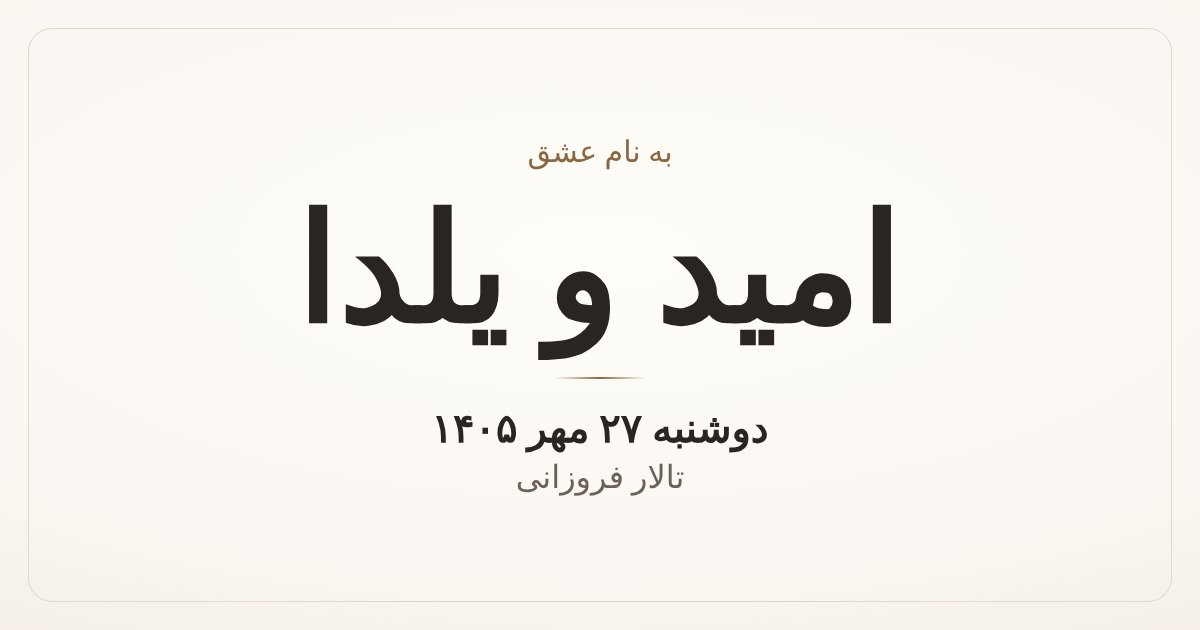
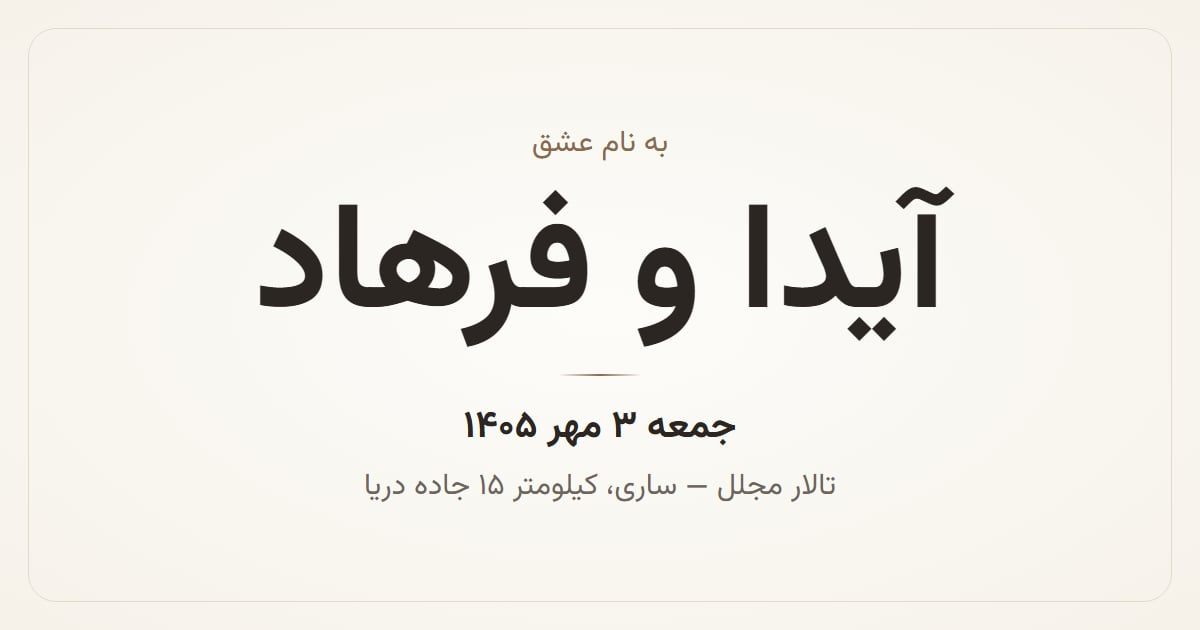
aida farhad

Changed region(s): [[0.2158, 0.3016, 0.8017, 0.6032], [0.3083, 0.6333, 0.7092, 0.8143], [0.4317, 0.2111, 0.555, 0.2714]]

diff --git a/index.html b/index.html
@@ -3,8 +3,8 @@
 <head>
   <meta charset="utf-8">
   <meta name="viewport" content="width=device-width, initial-scale=1, viewport-fit=cover">
-  <title>دعوتنامه عروسی امید و یلدا</title>
-  <meta name="description" content="دوشنبه ۲۷ مهر ۱۴۰۵ — تالار فروزانی">
+  <title>دعوتنامه عروسی آیدا و فرهاد</title>
+  <meta name="description" content="جمعه ۳ مهر ۱۴۰۵ — تالار مجلل، ساری">
   <meta name="theme-color" content="#faf7f2">
   <meta name="color-scheme" content="light">
   <meta name="robots" content="noindex">
@@ -16,16 +16,16 @@
   -->
   <meta property="og:type" content="website">
   <meta property="og:locale" content="fa_IR">
-  <meta property="og:title" content="دعوتنامه عروسی امید و یلدا">
-  <meta property="og:description" content="دوشنبه ۲۷ مهر ۱۴۰۵ — تالار فروزانی">
+  <meta property="og:title" content="دعوتنامه عروسی آیدا و فرهاد">
+  <meta property="og:description" content="جمعه ۳ مهر ۱۴۰۵ — تالار مجلل، ساری">
   <meta property="og:image" content="assets/og.jpg">
   <meta property="og:image:width" content="1200">
   <meta property="og:image:height" content="630">
   <meta property="og:image:type" content="image/jpeg">
-  <meta property="og:image:alt" content="امید و یلدا — دوشنبه ۲۷ مهر ۱۴۰۵">
+  <meta property="og:image:alt" content="آیدا و فرهاد — جمعه ۳ مهر ۱۴۰۵">
   <meta name="twitter:card" content="summary_large_image">
-  <meta name="twitter:title" content="دعوتنامه عروسی امید و یلدا">
-  <meta name="twitter:description" content="دوشنبه ۲۷ مهر ۱۴۰۵ — تالار فروزانی">
+  <meta name="twitter:title" content="دعوتنامه عروسی آیدا و فرهاد">
+  <meta name="twitter:description" content="جمعه ۳ مهر ۱۴۰۵ — تالار مجلل، ساری">
   <meta name="twitter:image" content="assets/og.jpg">
 
   <link rel="icon" href="assets/favicon.svg" type="image/svg+xml">
@@ -35,8 +35,8 @@
   <link rel="preload" href="assets/fonts/Vazirmatn-FD-NL-Regular.woff2" as="font" type="font/woff2" crossorigin>
   <link rel="preload" href="assets/fonts/Vazirmatn-FD-NL-Bold.woff2" as="font" type="font/woff2" crossorigin>
   <link rel="preload" href="assets/fonts/Playball-Regular.woff2" as="font" type="font/woff2" crossorigin>
-  <link rel="stylesheet" href="css/style.css?v=3">
-  <script defer src="js/main.js?v=6"></script>
+  <link rel="stylesheet" href="css/style.css?v=4">
+  <script defer src="js/main.js?v=7"></script>
   <noscript><style>.intro{display:none!important}.reveal{opacity:1!important;transform:none!important}</style></noscript>
 </head>
 <body class="is-locked">
@@ -47,15 +47,15 @@
     <div class="intro__head">
       <img class="intro__flower" src="assets/flowers/flower1.webp" alt="" width="500" height="164" decoding="async">
       <p class="intro__eyebrow" data-text="introEyebrow">دعوتنامه عروسی</p>
-      <p class="intro__names" data-text="couple">Yalda &amp; Omid</p>
+      <p class="intro__names" data-text="couple">Aida &amp; Farhad</p>
     </div>
     <div class="envelope" id="envelope" role="button" tabindex="0"
-         aria-label="Yalda &amp; Omid — باز کردن دعوتنامه" aria-describedby="intro-hint">
+         aria-label="Aida &amp; Farhad — باز کردن دعوتنامه" aria-describedby="intro-hint">
       <div class="envelope__back" aria-hidden="true"></div>
       <div class="envelope__letter" aria-hidden="true">
         <img src="assets/flowers/flower3.webp" alt="" width="400" height="240" decoding="async">
         <span class="envelope__letter-small" data-text="opening">به نام عشق</span>
-        <span class="envelope__letter-names" data-text="couple">Yalda &amp; Omid</span>
+        <span class="envelope__letter-names" data-text="couple">Aida &amp; Farhad</span>
       </div>
       <div class="envelope__front" aria-hidden="true">
         <svg viewBox="0 0 300 204" preserveAspectRatio="none" focusable="false">
@@ -70,7 +70,7 @@
         <svg viewBox="0 0 64 64" width="64" height="64" focusable="false">
           <path class="seal-wax" d="M32 3c4 0 6 3 9 4s7 0 9 3 1 6 3 9 5 5 5 9-3 6-4 9 0 7-3 9-6 1-9 3-5 5-9 5-6-3-9-4-7 0-9-3-1-6-3-9-5-5-5-9 3-6 4-9 0-7 3-9 6-1 9-3 5-5 9-5z"/>
           <circle class="seal-ring" cx="32" cy="32" r="19"/>
-          <text class="seal-text" x="32" y="37" text-anchor="middle">Y&amp;O</text>
+          <text class="seal-text" x="32" y="37" text-anchor="middle">A&amp;F</text>
         </svg>
       </div>
     </div>
@@ -91,13 +91,14 @@
       <p class="invite__opening reveal" data-text="opening">به نام عشق</p>
       <p class="invite__lead reveal" data-text="lead">در روزی که عشقم رنگ خاطرهای میگیرد
 کنارمان باشید ...</p>
-      <h1 class="invite__names reveal" data-text="names">Yalda &amp; Omid</h1>
+      <h1 class="invite__names reveal" data-text="names">Aida &amp; Farhad</h1>
       <span class="divider reveal" aria-hidden="true"></span>
-      <p class="invite__date reveal" data-text="date">دوشنبه ۲۷ مهر ۱۴۰۵
+      <p class="invite__date reveal" data-text="date">جمعه ۳ مهر ۱۴۰۵
 موعد دیدار ما</p>
       <p class="invite__time reveal" data-text="time">از ساعت ۷ بعد از ظهر
 تا خاموشی ستارگان ✨</p>
-      <p class="invite__venue reveal" data-text="venue">تالار فروزانی</p>
+      <p class="invite__venue reveal" data-text="venue">تالار مجلل</p>
+      <p class="invite__address reveal" data-text="address">ساری، کیلومتر ۱۵ جاده دریا</p>
       <p class="invite__note reveal" data-text="note">بودن شما، زیباترین خاطرهای است که میتوانیم
 از این شب به یادگار داشته باشیم.</p>
     </section>
@@ -123,7 +124,8 @@
 
     <!-- 5. Venue -->
     <section class="venue section" id="venue" aria-labelledby="venue-title">
-      <h2 class="section__title reveal" id="venue-title" data-text="venueName">تالار فروزانی</h2>
+      <h2 class="section__title reveal" id="venue-title" data-text="venueName">تالار مجلل</h2>
+      <p class="venue__address reveal" data-text="address">ساری، کیلومتر ۱۵ جاده دریا</p>
       <div class="venue__card reveal" aria-hidden="true">
         <svg class="venue__map" viewBox="0 0 400 220" preserveAspectRatio="xMidYMid slice" focusable="false">
           <rect width="400" height="220" class="m-bg"/>
@@ -139,7 +141,7 @@
             <circle class="m-pin__dot" cx="0" cy="-10" r="6"/>
           </g>
         </svg>
-        <span class="venue__label" data-text="venueName">تالار فروزانی</span>
+        <span class="venue__label" data-text="venueName">تالار مجلل</span>
       </div>
       <div class="venue__links reveal">
         <a class="btn btn--outline" id="link-neshan" href="#" target="_blank" rel="noopener">مسیریابی با نشان</a>
@@ -158,7 +160,7 @@
     <!-- 7. Closing -->
     <section class="closing section" id="closing" aria-labelledby="closing-title">
       <p class="closing__text reveal" id="closing-title" data-text="closing">چشمانتظار حضور گرمتان هستیم</p>
-      <p class="closing__names reveal" data-text="couple">Yalda &amp; Omid</p>
+      <p class="closing__names reveal" data-text="couple">Aida &amp; Farhad</p>
       <button class="btn btn--outline reveal" id="share" type="button">
         <svg viewBox="0 0 24 24" aria-hidden="true" focusable="false"><path d="M12 3v12M7.5 7.5 12 3l4.5 4.5M5 12v7a1.5 1.5 0 0 0 1.5 1.5h11A1.5 1.5 0 0 0 19 19v-7"/></svg>
         <span data-text="share">ارسال دعوتنامه برای دیگران</span>

diff --git a/js/main.js b/js/main.js
@@ -4,43 +4,45 @@
 const CONFIG = {
   // Absolute event time (Tehran, +03:30). Never depends on the guest's timezone.
   event: {
-    start: '2026-10-19T19:00:00+03:30',
-    end: '2026-10-19T23:59:00+03:30',
-    calendarTitle: 'عروسی امید و یلدا',
-    calendarFileName: 'omid-yalda-wedding.ics',
-    calendarDescription: 'دوشنبه ۲۷ مهر ۱۴۰۵ — از ساعت ۷ بعد از ظهر',
+    start: '2026-09-25T19:00:00+03:30',
+    end: '2026-09-25T23:59:00+03:30',
+    calendarTitle: 'عروسی آیدا و فرهاد',
+    calendarFileName: 'aida-farhad-wedding.ics',
+    calendarDescription: 'جمعه ۳ مهر ۱۴۰۵ — از ساعت ۷ بعد از ظهر',
   },
 
-  // Venue. Coordinates are from the Balad place page.
+  // Venue. TODO: fill lat/lng (or paste place links) once the exact pin is known.
   venue: {
-    name: 'تالار فروزانی',
-    lat: 36.554386,
-    lng: 53.121414,
+    name: 'تالار مجلل، ساری، کیلومتر ۱۵ جاده دریا',
+    lat: null,
+    lng: null,
     links: {
-      neshan: 'https://neshan.org/maps/places/d1102e01b0001169b90b6ff43ea9c3df',
-      // null => built from lat/lng
-      balad: 'https://balad.ir/p/%D8%AA%D8%A7%D9%84%D8%A7%D8%B1-%D8%B9%D8%B1%D9%88%D8%B3%DB%8C-%D9%81%D8%B1%D9%88%D8%B2%D8%A7%D9%86%DB%8C_ceremonial-services-PV2RL4A79M1Yle#17/36.554386/53.121414',
-      google: 'https://www.google.com/maps/search/?api=1&query=36.554386,53.121414',
+      // null => built from lat/lng; button is hidden if both are missing
+      neshan: null,
+      balad: null,
+      google: 'https://www.google.com/maps/search/?api=1&query=' +
+        encodeURIComponent('تالار مجلل ساری جاده دریا'),
     },
   },
 
   // All user-facing texts. "\n" = line break.
   texts: {
-    couple: 'Yalda & Omid',
+    couple: 'Aida & Farhad',
     introEyebrow: 'دعوتنامه عروسی',
     introHint: 'برای باز کردن لمس کنید',
     opening: 'به نام عشق',
     lead: 'در روزی که عشقم رنگ خاطرهای میگیرد\nکنارمان باشید ...',
-    names: 'Yalda & Omid',
-    date: 'دوشنبه ۲۷ مهر ۱۴۰۵\nموعد دیدار ما',
+    names: 'Aida & Farhad',
+    date: 'جمعه ۳ مهر ۱۴۰۵\nموعد دیدار ما',
     time: 'از ساعت ۷ بعد از ظهر\nتا خاموشی ستارگان ✨',
-    venue: 'تالار فروزانی',
+    venue: 'تالار مجلل',
+    address: 'ساری، کیلومتر ۱۵ جاده دریا',
     note: 'بودن شما، زیباترین خاطرهای است که میتوانیم\nاز این شب به یادگار داشته باشیم.',
     countdownTitle: 'تا لحظهی دیدار',
     tonight: 'امشب شب ماست ✨',
     thanks: 'از اینکه کنارمان بودید، سپاسگزاریم 🤍',
     addToCalendar: 'افزودن به تقویم',
-    venueName: 'تالار فروزانی',
+    venueName: 'تالار مجلل',
     galleryTitle: 'قاب خاطرهها',
     closing: 'چشمانتظار حضور گرمتان هستیم',
     share: 'ارسال دعوتنامه برای دیگران',
@@ -64,12 +66,12 @@ const CONFIG = {
   },
 
   share: {
-    title: 'دعوتنامه عروسی امید و یلدا',
-    text: 'دوشنبه ۲۷ مهر ۱۴۰۵ — تالار فروزانی',
+    title: 'دعوتنامه عروسی آیدا و فرهاد',
+    text: 'جمعه ۳ مهر ۱۴۰۵ — تالار مجلل، ساری',
     url: null, // null => current page URL (without query string)
   },
 
-  // Simulate "now" for testing, e.g. '2026-10-19T12:00:00+03:30'.
+  // Simulate "now" for testing, e.g. '2026-09-25T12:00:00+03:30'.
   // The ?now= query param overrides this. Presets: before | today | after
   debugNow: null,
 };
@@ -129,12 +131,15 @@ const CONFIG = {
     });
 
     const { lat, lng, links } = CONFIG.venue;
-    $('#link-neshan').href = links.neshan ||
-      `https://neshan.org/maps/@${lat},${lng},16z`;
-    $('#link-balad').href = links.balad ||
-      `https://balad.ir/location?latitude=${lat}&longitude=${lng}&zoom=16`;
-    $('#link-google').href = links.google ||
-      `https://www.google.com/maps?q=${lat},${lng}`;
+    const hasCoords = lat != null && lng != null;
+    const setLink = (sel, link, fromCoords) => {
+      const href = link || (hasCoords ? fromCoords : null);
+      if (href) $(sel).href = href;
+      else $(sel).hidden = true;
+    };
+    setLink('#link-neshan', links.neshan, `https://neshan.org/maps/@${lat},${lng},16z`);
+    setLink('#link-balad', links.balad, `https://balad.ir/location?latitude=${lat}&longitude=${lng}&zoom=16`);
+    setLink('#link-google', links.google, `https://www.google.com/maps?q=${lat},${lng}`);
   }
 
   /* ==========================================================================
@@ -389,7 +394,7 @@ const CONFIG = {
     return new Date(ms).toISOString().replace(/[-:]/g, '').replace(/\.\d{3}/, '');
   }
   function icsLocal(iso) {
-    // "2026-10-19T19:00:00+03:30" -> "20261019T190000"
+    // "2026-09-25T19:00:00+03:30" -> "20261019T190000"
     return iso.slice(0, 19).replace(/[-:]/g, '');
   }
   function icsEscape(s) {
@@ -420,7 +425,7 @@ const CONFIG = {
     const lines = [
       'BEGIN:VCALENDAR',
       'VERSION:2.0',
-      'PRODID:-//Omid & Yalda//Wedding Invitation//FA',
+      'PRODID:-//Aida & Farhad//Wedding Invitation//FA',
       'CALSCALE:GREGORIAN',
       'METHOD:PUBLISH',
       'BEGIN:VTIMEZONE',
@@ -433,14 +438,14 @@ const CONFIG = {
       'END:STANDARD',
       'END:VTIMEZONE',
       'BEGIN:VEVENT',
-      `UID:omid-yalda-${icsLocal(e.start)}@invitation`,
+      `UID:aida-farhad-${icsLocal(e.start)}@invitation`,
       `DTSTAMP:${icsDate(Date.now())}`,
       `DTSTART;TZID=Asia/Tehran:${icsLocal(e.start)}`,
       `DTEND;TZID=Asia/Tehran:${icsLocal(e.end)}`,
       `SUMMARY:${icsEscape(e.calendarTitle)}`,
       `LOCATION:${icsEscape(v.name)}`,
       `DESCRIPTION:${icsEscape(e.calendarDescription)}`,
-      `GEO:${v.lat};${v.lng}`,
+      ...(v.lat != null && v.lng != null ? [`GEO:${v.lat};${v.lng}`] : []),
       'BEGIN:VALARM',
       'ACTION:DISPLAY',
       `DESCRIPTION:${icsEscape(e.calendarTitle)}`,

diff --git a/css/style.css b/css/style.css
@@ -457,6 +457,11 @@ img, svg { display: block; }
   font-weight: 700;
   color: var(--accent);
 }
+.invite__address {
+  margin-top: 6px;
+  font-size: 15px;
+  color: var(--muted);
+}
 .invite__note {
   margin-top: 30px;
   font-size: clamp(13px, 3.75vw, 15px);
@@ -622,6 +627,12 @@ img, svg { display: block; }
    5. Venue
    ========================================================================== */
 
+.venue__address {
+  margin: -16px 0 20px;
+  font-size: 15px;
+  color: var(--muted);
+  text-align: center;
+}
 .venue__card {
   position: relative;
   width: 100%;
@@ -666,7 +677,8 @@ img, svg { display: block; }
   margin-top: 18px;
 }
 .venue__links .btn { padding: 0 12px; font-size: 14px; }
-.venue__links .btn:first-child { grid-column: 1 / -1; }
+.venue__links .btn:first-child,
+.venue__links .btn[hidden] + .btn[hidden] + .btn { grid-column: 1 / -1; }
 
 /* ==========================================================================
    6. Gallery
